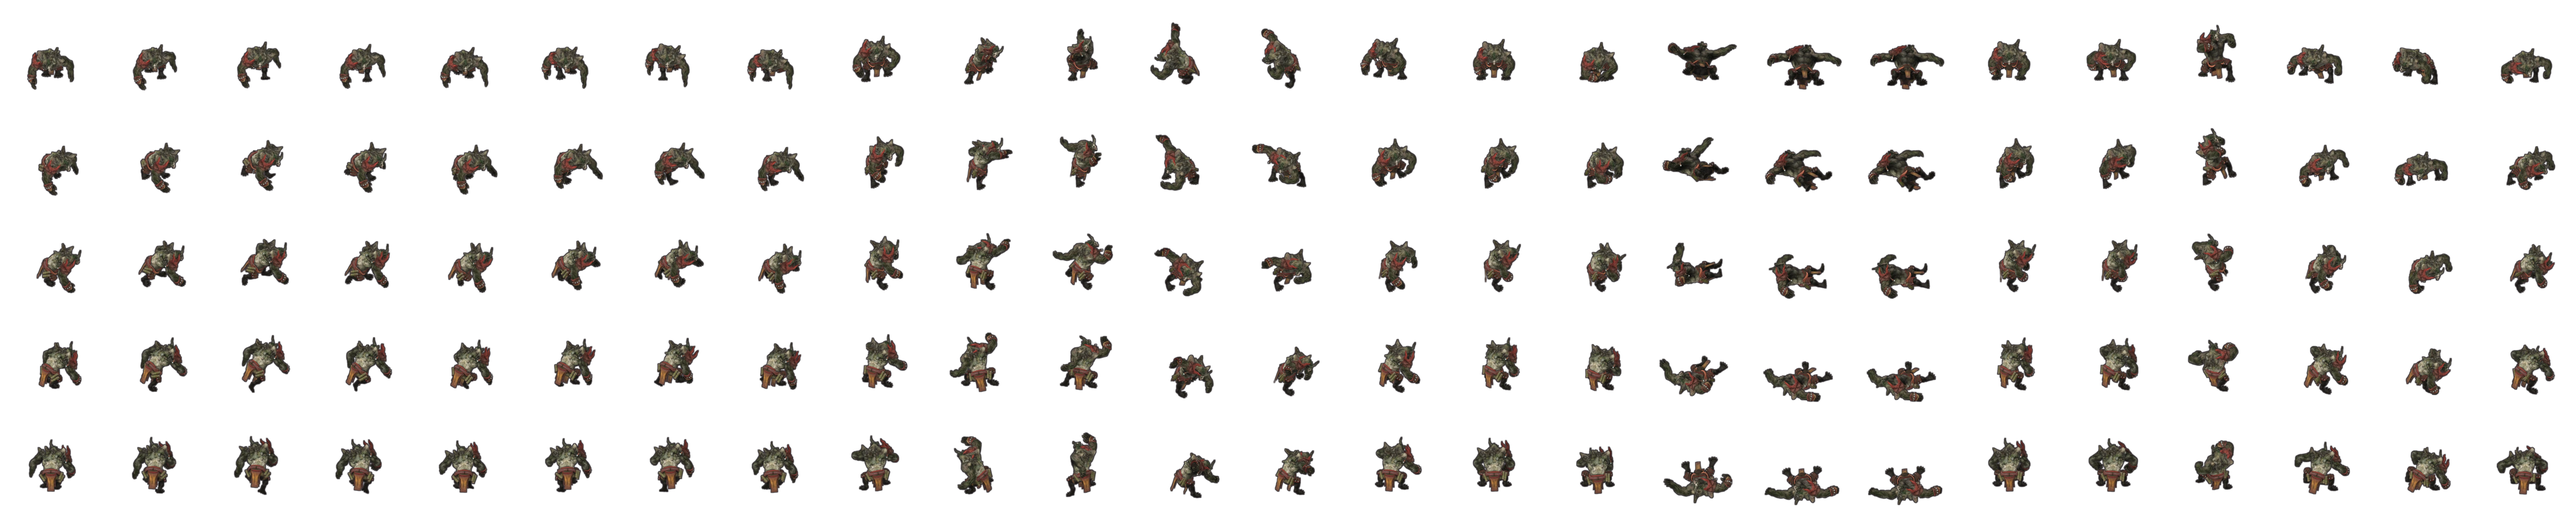
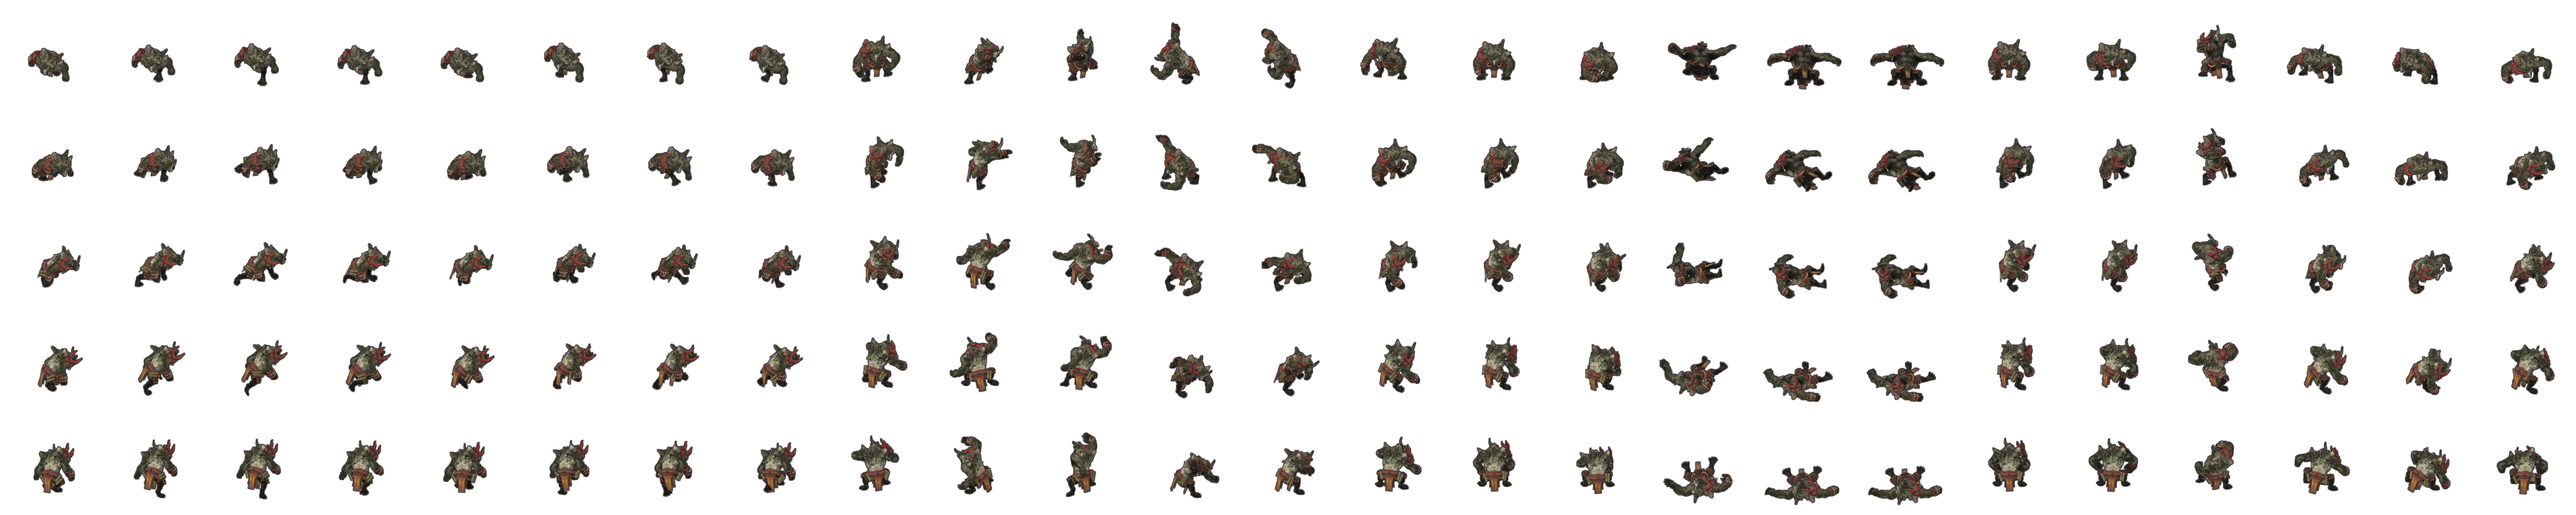
Герой Ganfaul с полным набором анимаций, враг-маг Nightshade, прямой бег и плавные повороты у всех врагов (v16)

diff --git a/combat.js b/combat.js
@@ -278,7 +278,7 @@ const CHARS = {
   hero: { cell: 288, ortho: 3.0, zc: 0.9, U: 118, top: 1.5, an: HERO_AN },
   zombie: { cell: 256, ortho: 3.0, zc: 0.9, U: 104, top: 1.5 },
   vampire: { cell: 256, ortho: 3.0, zc: 0.9, U: 114, top: 1.5 },
-  mage: { cell: 256, ortho: 3.0, zc: 0.9, U: 108, top: 1.6 },
+  mage: { cell: 256, ortho: 3.0, zc: 0.9, U: 108, top: 1.65 },
   archer: { cell: 256, ortho: 3.0, zc: 0.9, U: 104, top: 1.5 },
   boss: { cell: 320, ortho: 4.0, zc: 1.15, U: 122, top: 1.95 },
 };
@@ -306,7 +306,7 @@ function drawHero() {
   let anim = 'idle', fi = Math.floor(P.heroT * 3) % 4, row = runRow(P.face.x, P.face.y);
   if (P.dead > 0) { anim = 'die'; fi = Math.floor((3 - P.dead) / 0.6 * 5); }
   else if (P.act) { anim = P.act.anim; fi = Math.floor(P.act.t / P.act.dur * c.an[anim][1]); if (P.act.row != null) row = P.act.row; }
-  else if (P.moving) { anim = 'run'; fi = Math.floor(P.heroT * (P.running ? 13 : 9)) % 8; }
+  else if (P.moving) { anim = 'run'; fi = Math.floor(P.heroT * (P.running ? 8.5 : 7)) % 8; }
   ctx.save(); ctx.translate(P.x, P.y);
   if (P.dead > 0) ctx.globalAlpha = Math.min(1, P.dead / 0.8);
   drawSprite(c, anim, fi, row, P.hurt > 0.17);
@@ -329,7 +329,7 @@ function spawnEnemy(type) {
     x: (SRC_W - 430) * GS + rnd(-60, 60), y: 745 * GS + rnd(-150, 150),
     hp: k.hp, rad: k.rad, speed: k.speed, col: k.col, eye: k.boss ? '#ffb347' : '#ffe27a',
     slowT: 0, slowK: 1, root: 0, dot: 0, atkCd: rnd(0.3, 1.2), flash: 0, bob: rnd(0, 6), slamCd: 2, quakeCd: 7,
-    anim: 'run', animT: rnd(0, 1), row: 2, act: null,
+    anim: 'run', animT: rnd(0, 1), runPh: rnd(0, 1), row: 2, act: null,
   };
   e.max = e.hp;
   e.draw = () => drawEnemy(e);
@@ -360,10 +360,16 @@ function updateEnemy(e, dt) {
     return;
   }
   if (P.dead > 0) { e.anim = 'idle'; return; }
-  e.row = runRow(P.x - e.x, P.y - e.y);
+  // поворот с запасом: враг меняет направление, только когда цель ушла от текущего больше чем на 30 градусов
+  const ang = Math.atan2(P.y - e.y, P.x - e.x) * 180 / Math.PI;
+  if (Math.abs(((ang - (e.row * 45 + 90) + 540) % 360) - 180) > 30) e.row = runRow(P.x - e.x, P.y - e.y);
   const d = gdist(P, e), sp = e.speed * sk;
   const want = e.rng ? k.want : e.boss ? 105 : k.reach - 10;
-  if (d > want) { e.x += dx * sp * dt; e.y += dy * sp * YK * dt; collide(e); e.anim = 'run'; }
+  if (d > want) {
+    e.x += dx * sp * dt; e.y += dy * sp * YK * dt; collide(e); e.anim = 'run';
+    // темп шагов привязан к скорости: один цикл бега покрывает около 2,3 метра модели
+    e.runPh += dt * Math.max(0.8 * sk, Math.min(1.5, sp / (2.3 * e.ch.U)));
+  }
   else e.anim = 'idle';
   if (e.mel && d < k.reach + 12 && e.atkCd <= 0) {
     e.atkCd = k.cd;
@@ -547,7 +553,7 @@ function drawEnemy(e) {
     let fi = 0;
     if (dead) fi = Math.floor(e.dieT / 0.6 * n);
     else if (e.act) fi = Math.floor(e.act.t / e.act.dur * n);
-    else if (e.anim === 'run') fi = Math.floor(e.animT * e.speed / (e.boss ? 8 : 11) * (e.slowT > 0 ? e.slowK : 1)) % n;
+    else if (e.anim === 'run') fi = Math.floor(e.runPh * n) % n;
     drawSprite(c, e.anim, fi, e.row, e.flash > 0 && !dead);
   } else if (!dead) drawEnemyOval(e);
   if (dead) { ctx.restore(); return; }

diff --git a/index.html b/index.html
@@ -22,7 +22,7 @@
 <div id="hud"><b>Duel Arena</b> · <span id="tip">стик — движение, кнопки справа — огонь и скилы (ПК: WASD, пробел, Q E F R)</span><br>
 <span id="snd">🔇 коснитесь экрана, чтобы включить звук</span> <span id="pad">🎮 геймпад подключён</span></div>
 <script>
-const V = '?v=15';
+const V = '?v=16';
 const cv = document.getElementById('c');
 const ctx = cv.getContext('2d');
 let DPR = 1, W = 0, H = 0;
@@ -482,6 +482,6 @@ function frame(now) {
 }
 requestAnimationFrame(frame);
 </script>
-<script src="combat.js?v=15"></script>
+<script src="combat.js?v=16"></script>
 </body>
 </html>
